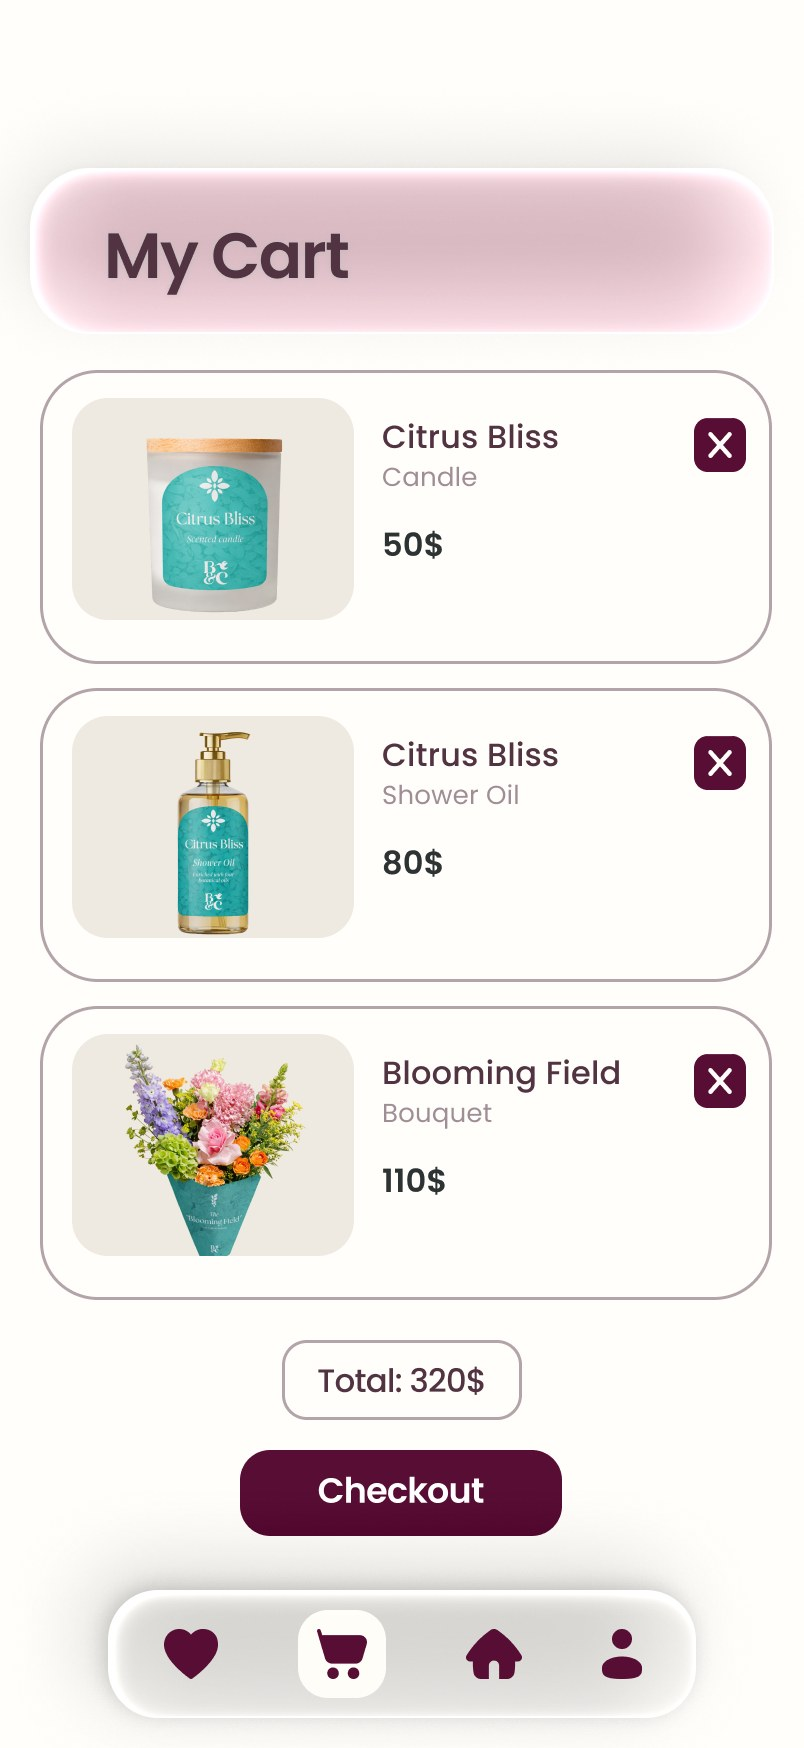
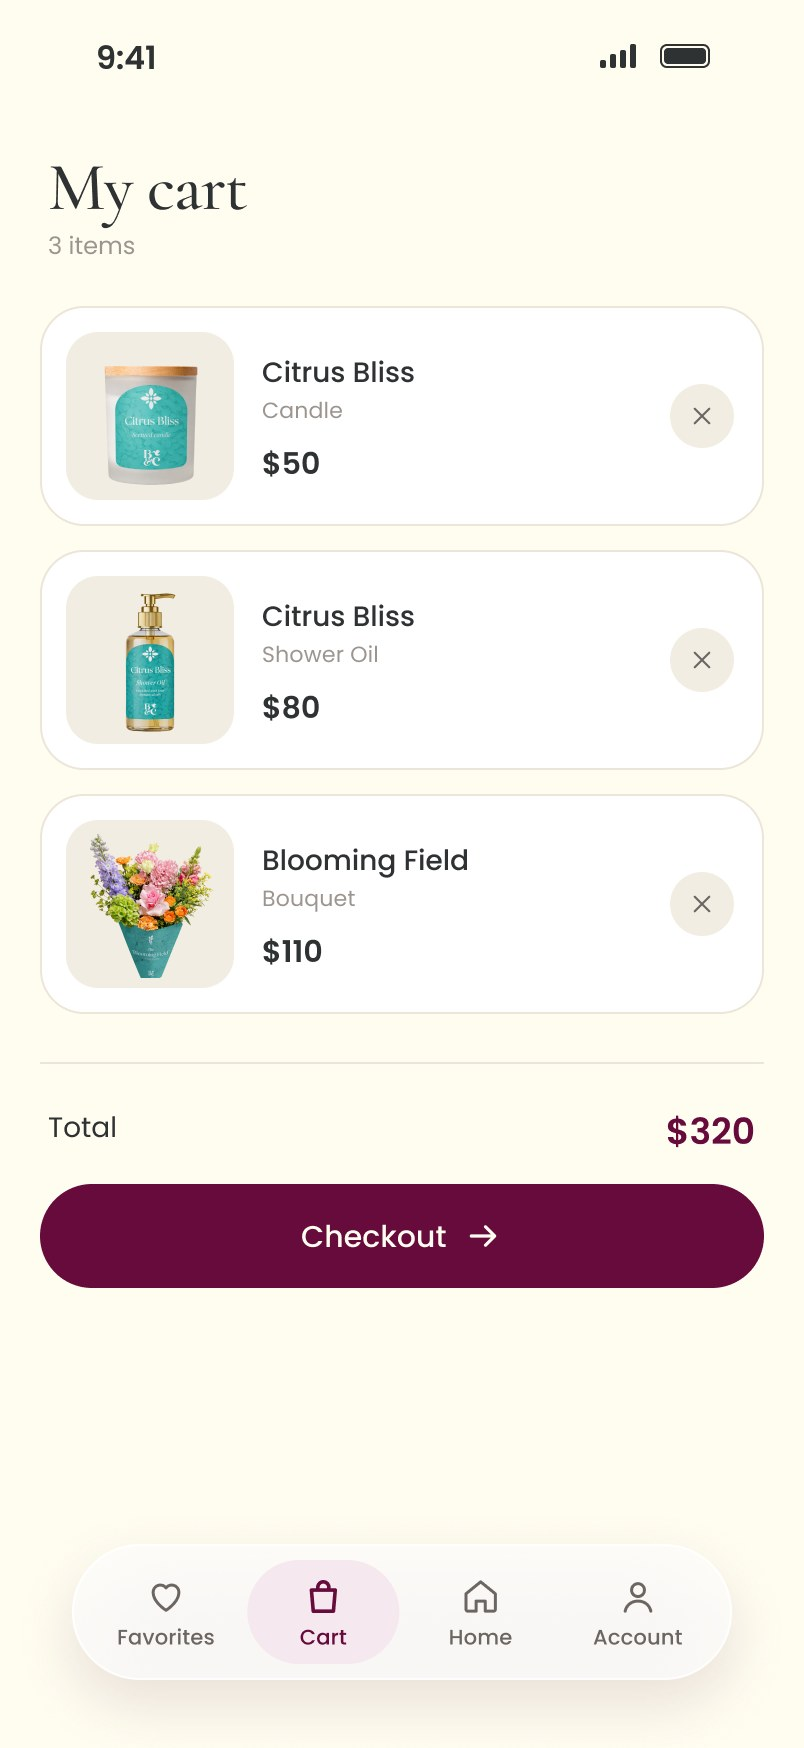
Blume & Co: redesigned app screens on the case study
Claude-Session: https://claude.ai/code/session_01NL83kx43z6CjtTsG6VWgUt

diff --git a/projects/blume-and-co.html b/projects/blume-and-co.html
@@ -354,11 +354,11 @@
     <div class="cs-media" style="margin-top:clamp(48px,6vw,80px)">
       <div class="cs-phones-panel reveal">
         <div class="cs-phones bc-phones">
-          <div class="cs-phone"><div class="shell"><div class="screen"><img src="../images/blume/v2/screen-onboarding.jpg" alt="Onboarding: follow your gift’s journey" loading="lazy"></div></div><span class="t"><span class="en">Onboarding</span></span><span class="d"><span class="en">The first thing you learn: you can follow your gift all the way.</span></span></div>
-          <div class="cs-phone"><div class="shell"><div class="screen"><img src="../images/blume/v2/screen-home.jpg" alt="Home with an active order on top" loading="lazy"></div></div><span class="t"><span class="en">Home</span></span><span class="d"><span class="en">A curated catalog, with the live order pinned on top.</span></span></div>
-          <div class="cs-phone"><div class="shell"><div class="screen"><img src="../images/blume/v2/screen-cart.jpg" alt="My cart" loading="lazy"></div></div><span class="t"><span class="en">Cart</span></span><span class="d"><span class="en">Few items, big product photos, a clear total.</span></span></div>
-          <div class="cs-phone"><div class="shell"><div class="screen"><img src="../images/blume/v2/screen-checkout.jpg" alt="Checkout with delivery time and note" loading="lazy"></div></div><span class="t"><span class="en">Checkout</span></span><span class="d"><span class="en">Address, note and delivery time, all on one card.</span></span></div>
-          <div class="cs-phone"><div class="shell"><div class="screen"><img src="../images/blume/v2/screen-progress.jpg" alt="Progress bar, ETA and order summary" loading="lazy"></div></div><span class="t"><span class="en">Tracking</span></span><span class="d"><span class="en">Every stage, an ETA, and the note you can still edit.</span></span></div>
+          <div class="cs-phone"><div class="shell"><div class="screen"><img src="../images/blume/v2/screen-onboarding.jpg?v=2" alt="Onboarding: follow your gift’s journey" loading="lazy"></div></div><span class="t"><span class="en">Onboarding</span></span><span class="d"><span class="en">The first thing you learn: you can follow your gift all the way.</span></span></div>
+          <div class="cs-phone"><div class="shell"><div class="screen"><img src="../images/blume/v2/screen-home.jpg?v=2" alt="Home with an active order on top" loading="lazy"></div></div><span class="t"><span class="en">Home</span></span><span class="d"><span class="en">A curated catalog, with the live order pinned on top.</span></span></div>
+          <div class="cs-phone"><div class="shell"><div class="screen"><img src="../images/blume/v2/screen-cart.jpg?v=2" alt="My cart" loading="lazy"></div></div><span class="t"><span class="en">Cart</span></span><span class="d"><span class="en">Few items, big product photos, a clear total.</span></span></div>
+          <div class="cs-phone"><div class="shell"><div class="screen"><img src="../images/blume/v2/screen-checkout.jpg?v=2" alt="Checkout with delivery time and note" loading="lazy"></div></div><span class="t"><span class="en">Checkout</span></span><span class="d"><span class="en">Address, note and delivery time in one card, payment in another.</span></span></div>
+          <div class="cs-phone"><div class="shell"><div class="screen"><img src="../images/blume/v2/screen-progress.jpg?v=2" alt="Order tracking: ETA, current status, progress bar and order summary" loading="lazy"></div></div><span class="t"><span class="en">Tracking</span></span><span class="d"><span class="en">Every stage, an ETA, and the note you can still edit.</span></span></div>
         </div>
       </div>
     </div>
